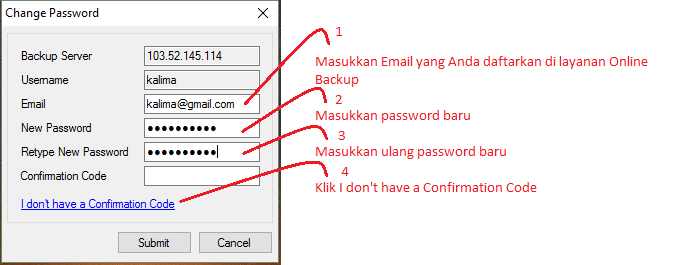
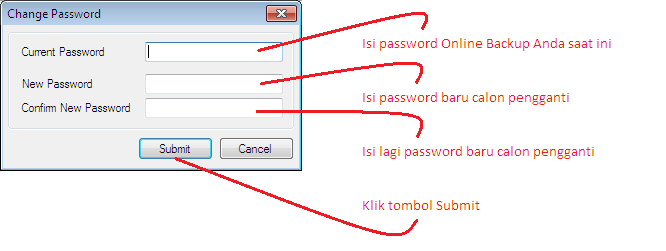
updates change password dialogs

diff --git a/ubah-password-ob.html b/ubah-password-ob.html
@@ -90,6 +90,7 @@
                 Di saat tertentu mungkin Anda perlu mengubah password akun <b>Online Backup</b>, berikut langkah - langkahnya:
                 <ol>
                     <li>Pastikan Anda telah mendaftar layanan <b>Online Backup</b>. Kalau belum, dapat mendaftar dahulu <a href="online-backup.html#daftar" target="_blank">klik disini</a>.</li>
+                    <li>Pastikan telah menggunakan modul <b>Online Backup</b> v1.26. Kalau belum, <a href="download.html#lain-lain" target="_blank">klik disini</a>.</li>
                     <li>Jalankan modul <b>Online Backup</b>.</li>
                     <li>
                         Klik <b>3 tanda titik bertumpuk</b> di sisi kiri atas pada modul -> klik <b>Change Password</b>, perhatikan gambar di bawah ini.
@@ -103,27 +104,17 @@
                         <img src="images/online-backup/change-password-2.PNG" alt="cpo 2" width="70%">
                         <br><br>
                     </li>
-                    <li>
-                        Akan muncul pop up konfirmasi seperti di bawah ini dan klik <b>Yes</b>:
-                        <br><br>
-                        <img src="images/online-backup/change-password-3.PNG" alt="cpo 3" width="40%">
-                        <br><br>
-                    </li>
-                    <li>
-                        Cek email Anda untuk mendapatkan <b>Confirmation Code</b>, kemudian lakukan sesuai petunjuk di gambar bawah ini dan klik <b>Yes</b>.
-                        <br><br>
-                        <img src="images/online-backup/change-password-4.PNG" alt="cpo 4" width="55%">
-                        <br><br>
-                    </li>
                     <li>Selesai.</li>
                 </ol>    
             </p>
             
             <p>Selanjutnya klik <b>3 tanda titik bertumpuk</b> -> klik <b>Settings..</b> -> pada box: <b>Password</b> isi dengan password baru Anda dan klik <b>OK</b>. <b>Online Backup</b> akan bekerja kembali.</p>
             
+<!--
             <p class="note">
                 <b>Catatan</b>: Mulai 27 November 2017 sementara fitur ubah password di atas tidak bekerja.
             </p>
+-->
             
             <div class="bottom-content"></div>
         </div>
